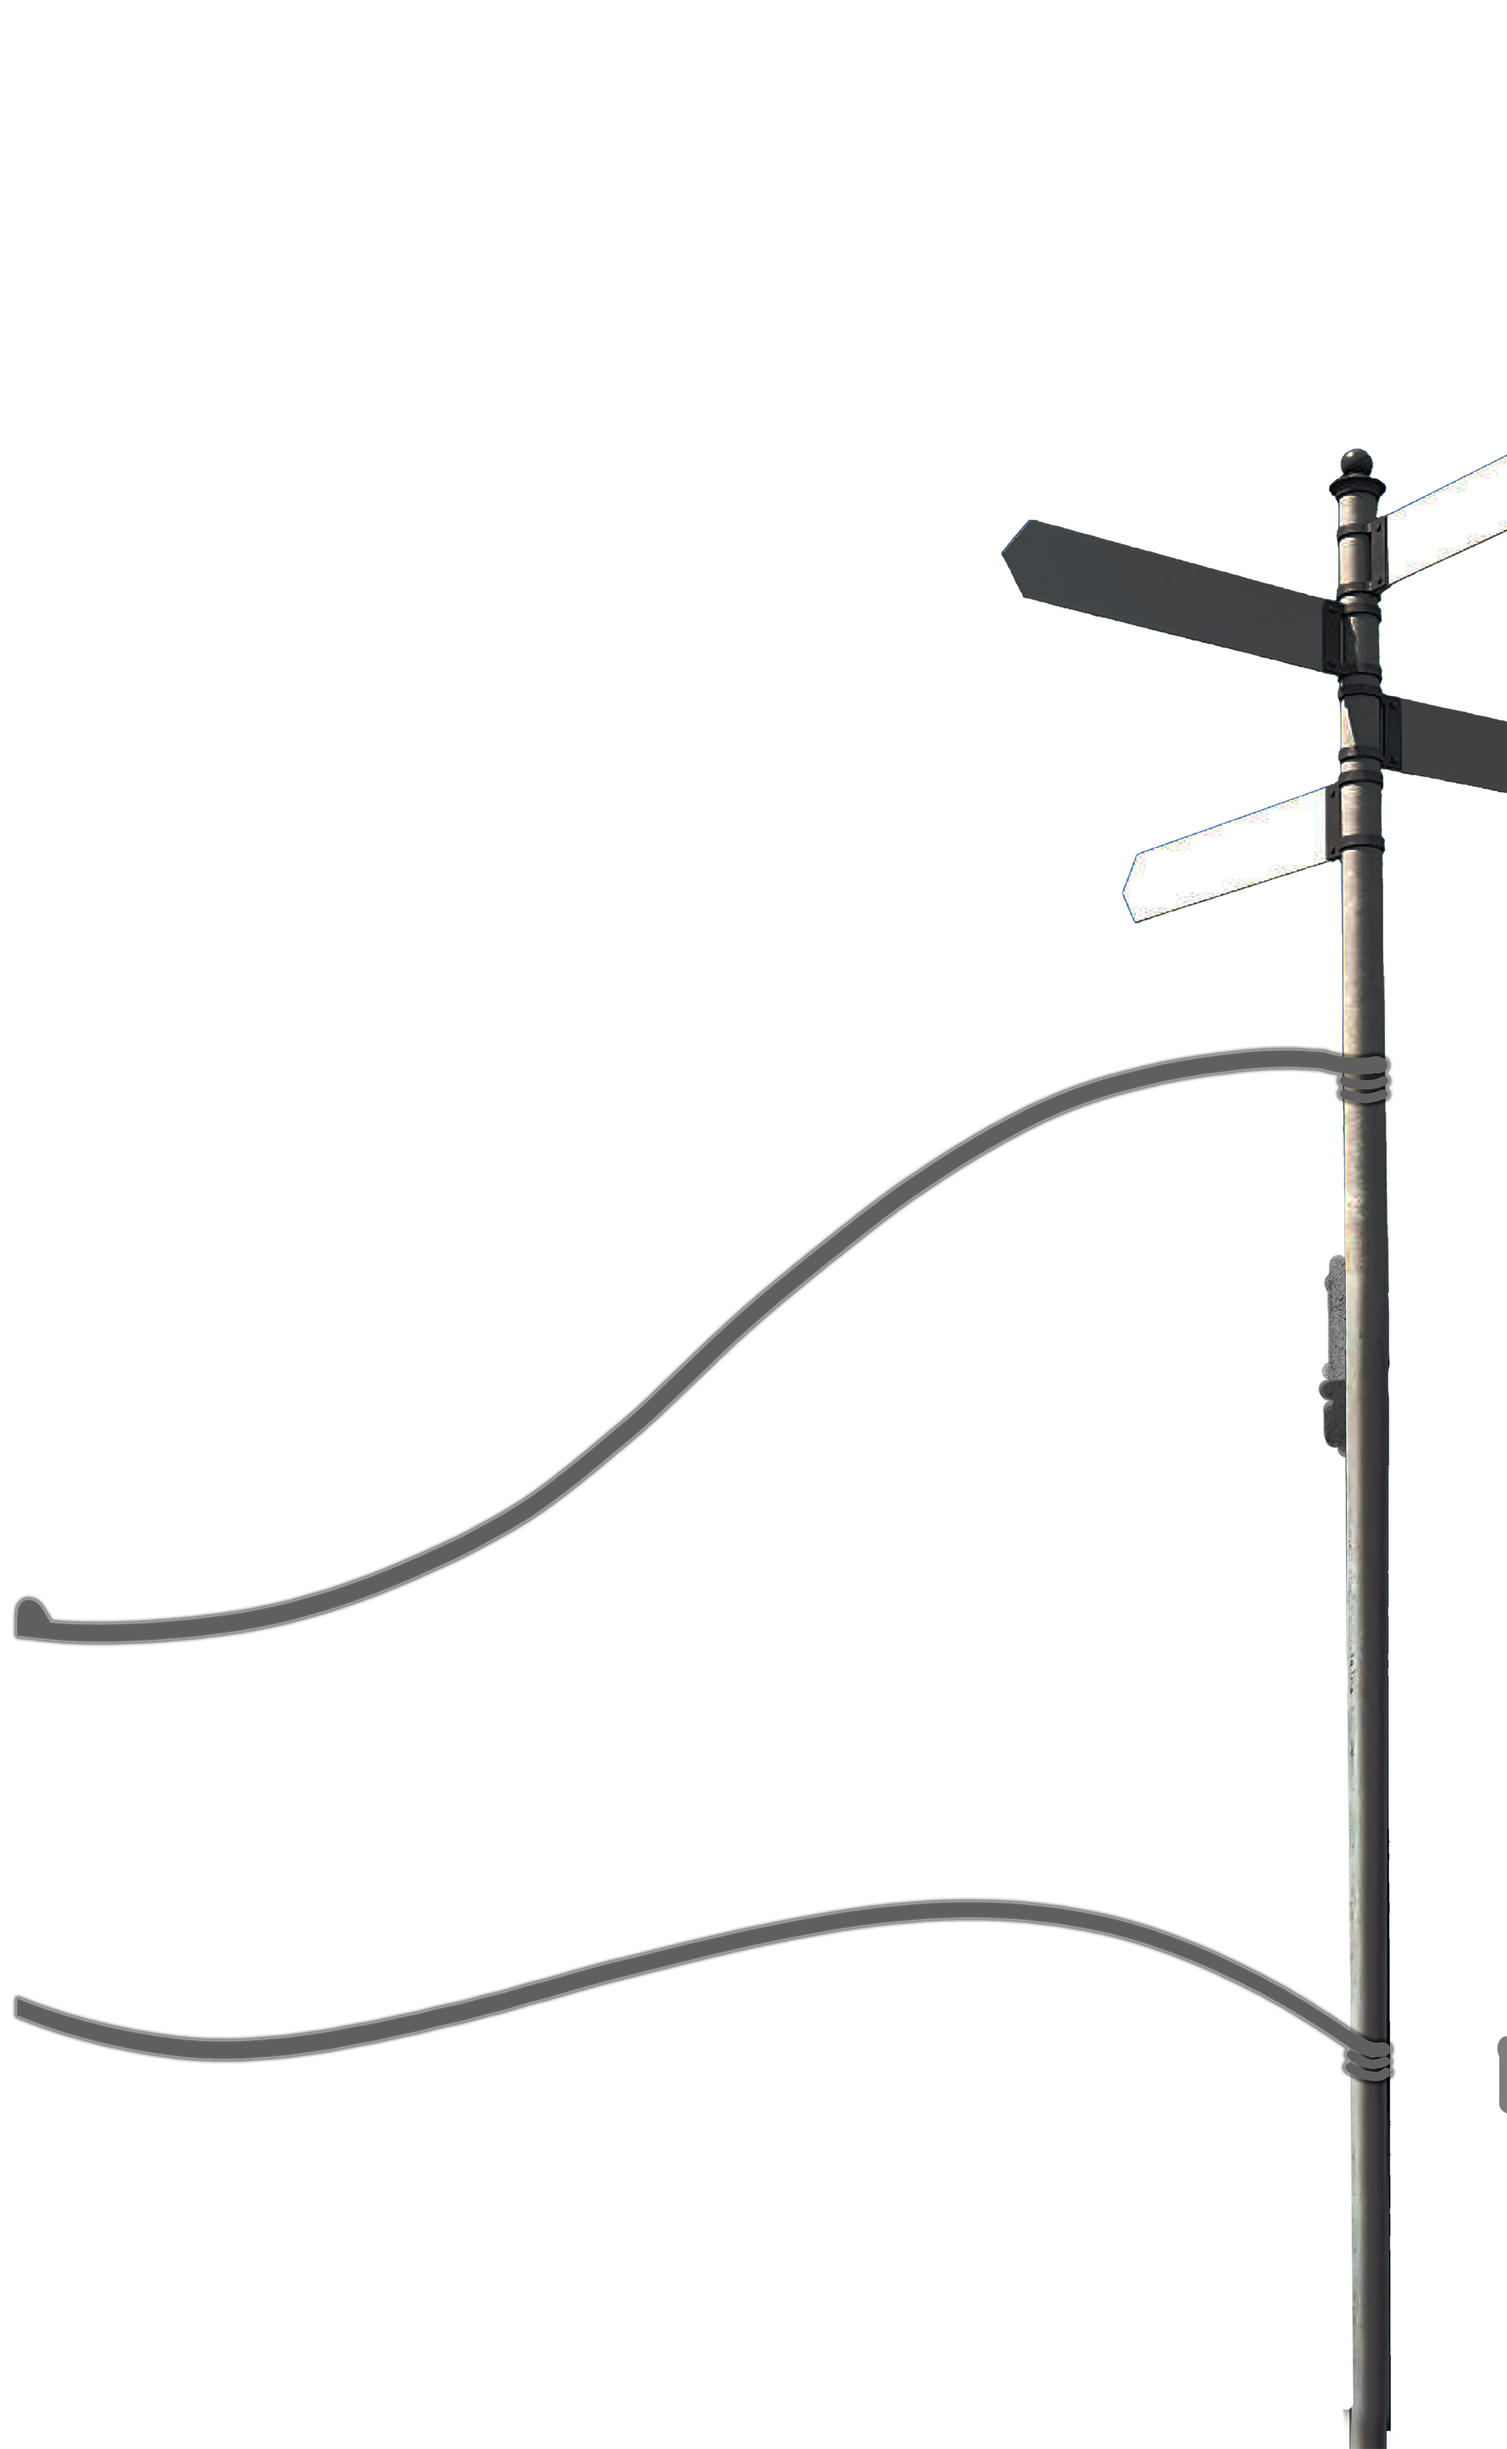
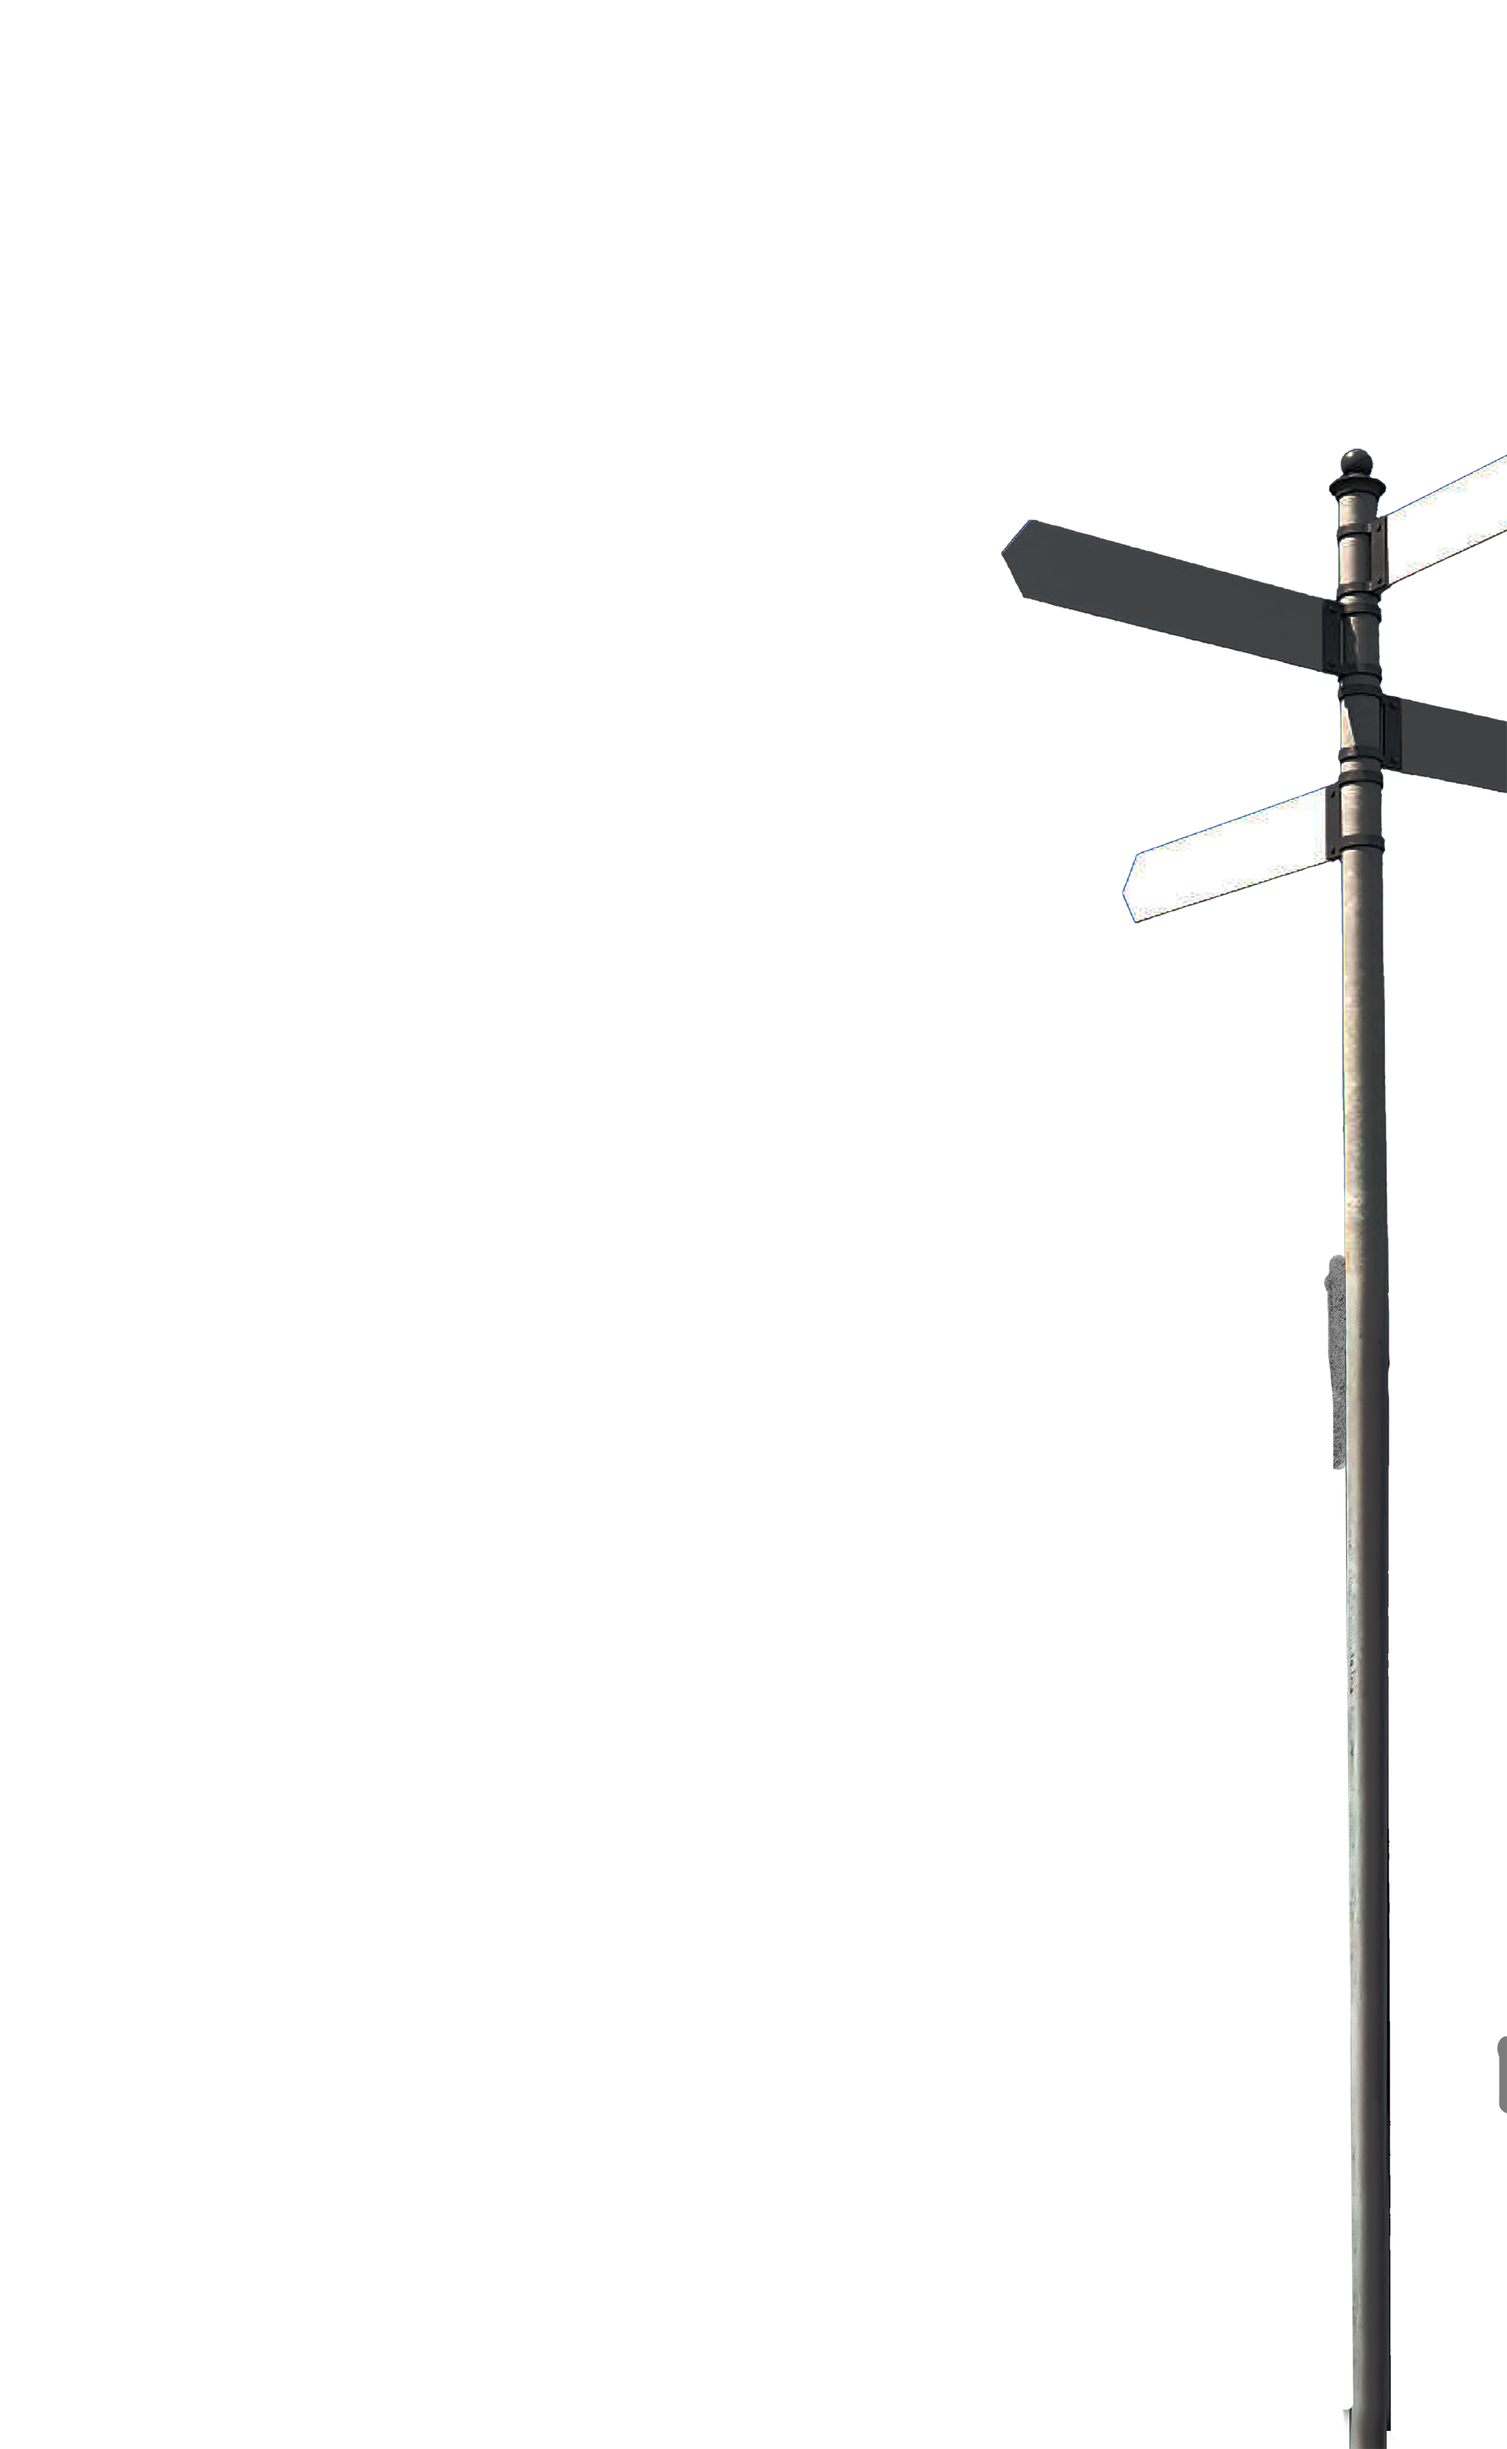
messy

diff --git a/css/forside.css b/css/forside.css
@@ -30,10 +30,10 @@ html, body {
 
 
 #back-img {
-    background-image: url(/img/forsiden/background-empty.png);
+    background-image: url(/img/forsiden/background-update.png);
     background-size: cover;
     background-repeat: no-repeat;
-    background-position: center;
+    background-position: center right;
     height: 190rem;
     min-height: 100vh;
     box-sizing: border-box;
@@ -52,8 +52,10 @@ html, body {
 #tilbud {
     position: relative; 
     margin-top: 20px; 
+    padding-left: 25%;
     left: 4%;
     top: 0;
+    grid-area: 1 / 1 / 3 / 3; 
 }
 
 #tilbud h2{
@@ -83,19 +85,50 @@ html, body {
     padding: 1%;
 }
 
+.skilt{
+    z-index: 0;
+    position: absolute;
+    top: 13.5%;
+    right: 0%;
+    size: 90%;
+}
 .grid{                                                                   /*Definere spacen af main*/
     display: grid;
-    grid-template-columns: repeat(25, 1fr);
-    grid-template-rows: repeat(10, 1fr);
+    grid-template-columns: repeat(25, 0.5fr);
+    grid-template-rows: repeat(21, 0.5fr);
     grid-column-gap: 0px;
     grid-row-gap: 0px;
 }
-.grid1 { grid-area: 2 / 2 / 7 / 7; }
-.grid2{ grid-area: 1 / 20 / 26 / 25; }
-.grid3 { grid-area: 6 / 16 / 11 / 19; }
-.grid4 { grid-area: 9 / 11 / 14 / 14; }
-.grid5 { grid-area: 12 / 6 / 17 / 9; }
-.grid6 { grid-area: 16 / 2 / 21 / 5; }
+/* x start, y slut, x slut, y start */
+
+.grid2 { 
+    grid-area: 5 / 22 / 6 / 18; 
+    background-color: grey;
+    transform: rotate(14deg);
+
+}
+.grid2 p { 
+font-size: 450%;
+font-family: big-noodle;
+letter-spacing: 5px;
+padding-top: 9%;
+padding-left: 20%;
+}
+.grid3 { 
+    grid-area: 6 / 16 / 11 / 19; 
+    background-color: grey;
+}
+.grid4 { 
+    grid-area: 9 / 11 / 14 / 14; 
+    background-color: grey;
+}
+.grid5 { 
+    grid-area: 12 / 6 / 17 / 9; 
+    background-color: grey;
+}
+.grid6 { 
+    grid-area: 16 / 2 / 21 / 5; 
+    background-color: grey;}
 .grid7 { 
     grid-area: 17 / 16 / 22 / 19;
     background-color: grey;

diff --git a/index.html b/index.html
@@ -64,6 +64,7 @@
     </section>   
     <main id="back-img">
         <section class="grid">
+            <img src="img/forsiden/skilt.png" alt="kort-streetfood">
             <article id="tilbud">
                 <h2>FROKOST</h2>
                 <h3>TILBUD</h3>
@@ -71,13 +72,15 @@
                     <p>11:30 - 15:00</p>
                 </aside>
             </article>
-            <div class="grid1">TEST</div>
-            <div class="grid2"></div>
-            <div class="grid3"></div>
-            <div class="grid4"></div>
-            <div class="grid5"></div>
-            <div class="grid6"></div>
-            <div class="grid7">FLOKKKKKK</div>
+            <div class="grid2">
+                <p>Se kortet</p>
+            </div>
+            <!-- Stuff to comment out or make inactive 
+            <div class="grid3">g</div>
+            <div class="grid4">i</div>
+            <div class="grid5">k</div>
+            <div class="grid6">l</div>
+            <div class="grid7">FLOKKKKKK</div>-->
         </section>
     </main>
     <aside id="top"><a href="#top">Til Toppen</a></aside>
